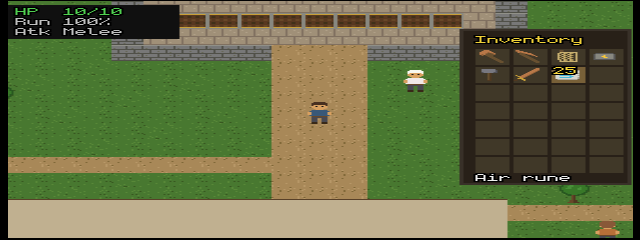
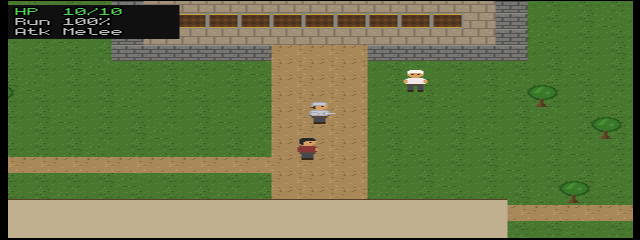
Draw worn equipment on the player sprite
Equipped gear now renders on the character: helm, platebody, sword and
shield overlay the player base in all four facings, with left-facing
using baked flips (copy mode can't mirror). 32 overlay sprites: bronze
hand-drawn, iron recolored, side-left flipped at asset-gen time.

Draw order is body, helm, shield, weapon so the blade sits on top. The
overlays align to the player frame and snap to even X like every other
copy-mode blit.

diff --git a/src/main.c b/src/main.c
@@ -169,6 +169,15 @@ enum {
     SPR_I_BRONZE_HELM, SPR_I_IRON_HELM, SPR_I_BRONZE_SHIELD, SPR_I_IRON_SHIELD,
     SPR_I_BRONZE_BODY, SPR_I_IRON_BODY,
     SPR_BOLT_AIR, SPR_BOLT_FIRE,
+    /* worn-equipment overlays: 4 facings (down,up,side,side-left) per slot */
+    SPR_EQ_BZ_HELM_D, SPR_EQ_BZ_HELM_U, SPR_EQ_BZ_HELM_S, SPR_EQ_BZ_HELM_SL,
+    SPR_EQ_BZ_BODY_D, SPR_EQ_BZ_BODY_U, SPR_EQ_BZ_BODY_S, SPR_EQ_BZ_BODY_SL,
+    SPR_EQ_BZ_WEP_D,  SPR_EQ_BZ_WEP_U,  SPR_EQ_BZ_WEP_S,  SPR_EQ_BZ_WEP_SL,
+    SPR_EQ_BZ_SHD_D,  SPR_EQ_BZ_SHD_U,  SPR_EQ_BZ_SHD_S,  SPR_EQ_BZ_SHD_SL,
+    SPR_EQ_IR_HELM_D, SPR_EQ_IR_HELM_U, SPR_EQ_IR_HELM_S, SPR_EQ_IR_HELM_SL,
+    SPR_EQ_IR_BODY_D, SPR_EQ_IR_BODY_U, SPR_EQ_IR_BODY_S, SPR_EQ_IR_BODY_SL,
+    SPR_EQ_IR_WEP_D,  SPR_EQ_IR_WEP_U,  SPR_EQ_IR_WEP_S,  SPR_EQ_IR_WEP_SL,
+    SPR_EQ_IR_SHD_D,  SPR_EQ_IR_SHD_U,  SPR_EQ_IR_SHD_S,  SPR_EQ_IR_SHD_SL,
     NUM_SPR
 };
 
@@ -201,7 +210,15 @@ static const char *spr_files[NUM_SPR] = {
     "item_bronze_sword", "item_iron_sword", "item_iron_axe", "item_iron_pick",
     "item_bronze_helm", "item_iron_helm", "item_bronze_shield",
     "item_iron_shield", "item_bronze_body", "item_iron_body",
-    "obj_bolt_air", "obj_bolt_fire"
+    "obj_bolt_air", "obj_bolt_fire",
+    "eq_bz_helm_d", "eq_bz_helm_u", "eq_bz_helm_s", "eq_bz_helm_sl",
+    "eq_bz_body_d", "eq_bz_body_u", "eq_bz_body_s", "eq_bz_body_sl",
+    "eq_bz_wep_d",  "eq_bz_wep_u",  "eq_bz_wep_s",  "eq_bz_wep_sl",
+    "eq_bz_shd_d",  "eq_bz_shd_u",  "eq_bz_shd_s",  "eq_bz_shd_sl",
+    "eq_ir_helm_d", "eq_ir_helm_u", "eq_ir_helm_s", "eq_ir_helm_sl",
+    "eq_ir_body_d", "eq_ir_body_u", "eq_ir_body_s", "eq_ir_body_sl",
+    "eq_ir_wep_d",  "eq_ir_wep_u",  "eq_ir_wep_s",  "eq_ir_wep_sl",
+    "eq_ir_shd_d",  "eq_ir_shd_u",  "eq_ir_shd_s",  "eq_ir_shd_sl"
 };
 
 static sprite_t *spr[NUM_SPR];
@@ -1934,6 +1951,48 @@ static int actor_sprite(int facing, bool moving, float walk_anim)
     return idx;
 }
 
+/* worn-gear overlays: base sprite (the _D facing) for an equipped item, or -1.
+   the 4 facings (down,up,side,side-left) are consecutive after the base. */
+static int equip_overlay_base(int item)
+{
+    switch (item) {
+    case IT_BRONZE_HELM:   return SPR_EQ_BZ_HELM_D;
+    case IT_IRON_HELM:     return SPR_EQ_IR_HELM_D;
+    case IT_BRONZE_BODY:   return SPR_EQ_BZ_BODY_D;
+    case IT_IRON_BODY:     return SPR_EQ_IR_BODY_D;
+    case IT_BRONZE_SWORD:  return SPR_EQ_BZ_WEP_D;
+    case IT_IRON_SWORD:    return SPR_EQ_IR_WEP_D;
+    case IT_BRONZE_SHIELD: return SPR_EQ_BZ_SHD_D;
+    case IT_IRON_SHIELD:   return SPR_EQ_IR_SHD_D;
+    default:               return -1;
+    }
+}
+
+/* facing (0 down,1 up,2 left,3 right) -> overlay dir (0 down,1 up,2 side,3 side-left) */
+static int overlay_dir(int facing)
+{
+    switch (facing) {
+    case 0:  return 0;
+    case 1:  return 1;
+    case 2:  return 3;   /* left uses the baked flip */
+    default: return 2;   /* right */
+    }
+}
+
+static void draw_player_equipment(int px, int py, int facing)
+{
+    /* draw order: body, helm, shield, then weapon on top */
+    static const int order[4] = { SLOT_BODY, SLOT_HELM, SLOT_SHIELD, SLOT_WEAPON };
+    int dir = overlay_dir(facing);
+    for (int i = 0; i < 4; i++) {
+        int item = equipped[order[i] - 1];
+        if (item == IT_NONE) continue;
+        int base = equip_overlay_base(item);
+        if (base < 0) continue;
+        rdpq_sprite_blit(spr[base + dir], px, py, NULL);
+    }
+}
+
 static void draw_entity_hpbar(float sx, float sy, int hp, int maxhp)
 {
     int w = 16;
@@ -2071,9 +2130,10 @@ static void render(void)
         /* player */
         if (pl_row == y) {
             int idx = actor_sprite(pl.facing, pl.moving, pl.walk_anim);
-            rdpq_sprite_blit(spr[SPR_PL_DOWN_A + idx],
-                             ((int)(pl.px - 8) - cam_x) & ~1,
-                             (int)(pl.py - 20) - cam_y, NULL);
+            int px = ((int)(pl.px - 8) - cam_x) & ~1;
+            int py = (int)(pl.py - 20) - cam_y;
+            rdpq_sprite_blit(spr[SPR_PL_DOWN_A + idx], px, py, NULL);
+            draw_player_equipment(px, py, pl.facing);
         }
     }
 

diff --git a/README.md b/README.md
@@ -39,7 +39,8 @@ tinderbox. The world runs on a **600 ms game tick**, just like the classic:
   your inventory to equip it. Four slots — weapon, shield, helm, body — each
   with Attack/Strength/Defence bonuses that feed straight into the combat
   formulas. Bronze gear wears at level 1, iron at Defence 10. You start with a
-  bronze sword in your pack to wield
+  bronze sword in your pack to wield. **Worn gear is drawn on your character** —
+  helm, platebody, sword and shield all show on the sprite in every facing
 - **A quest!** — *The Chef's Little Problem*: Chef Bouillon by the bank path
   needs 3 goblins bashed and 2 cooked shrimp delivered. Chunky xp rewards,
   as is right and proper